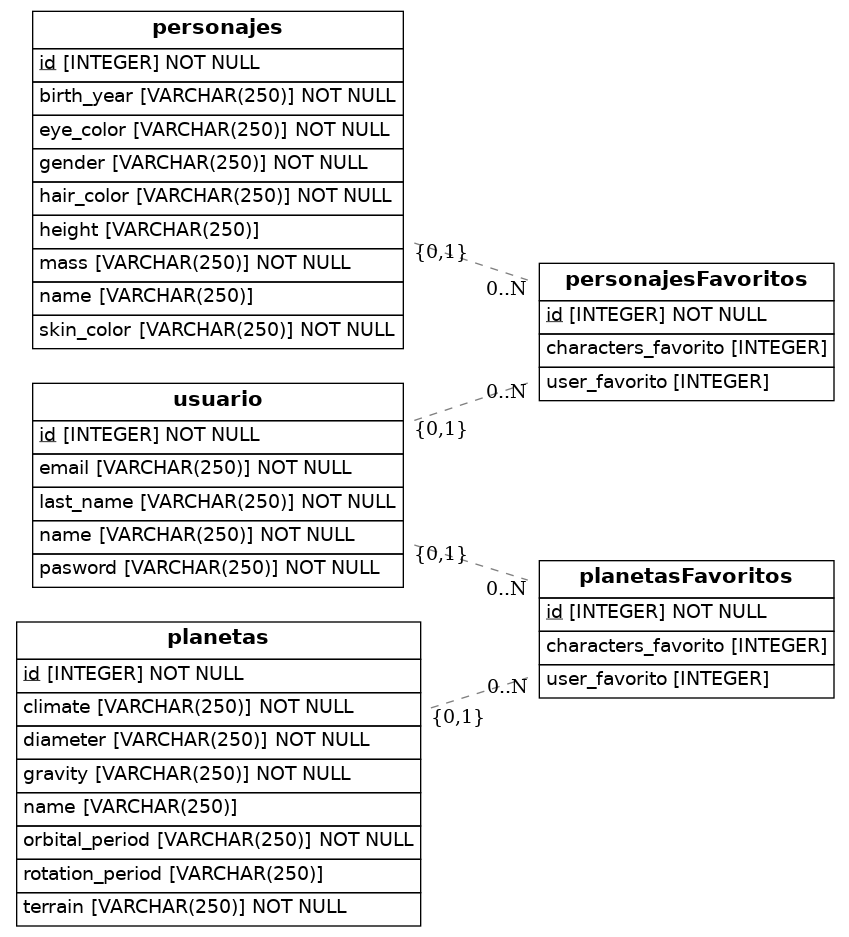
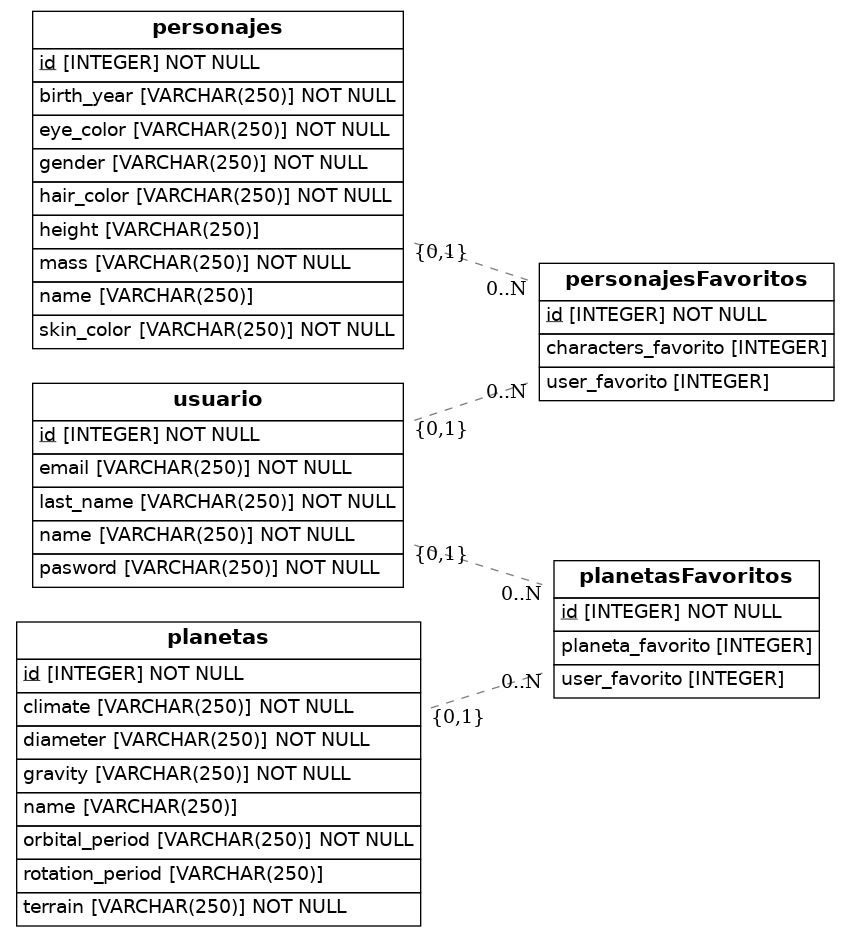
Correcion hecha

Changed region(s): [[0.5819, 0.619, 1.0, 0.7428]]

diff --git a/src/models.py b/src/models.py
@@ -33,7 +33,7 @@ class PlanetasFavoritos(Base):
     id = Column(Integer, primary_key=True)
     user_favorito = Column(Integer, ForeignKey('usuario.id'))
     usuario = relationship("Usuario")
-    characters_favorito = Column(Integer, ForeignKey('planetas.id'))
+    planeta_favorito = Column(Integer, ForeignKey('planetas.id'))
     planetas = relationship("Planetas")
 
 
